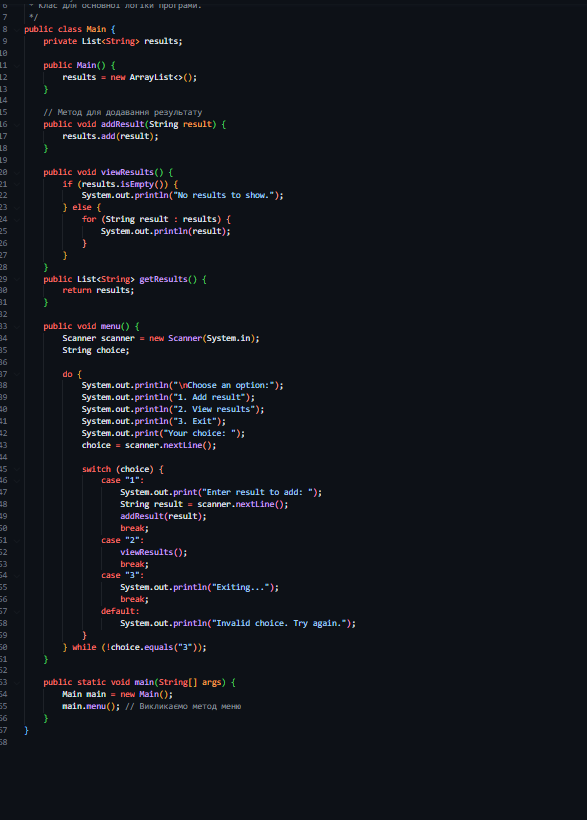
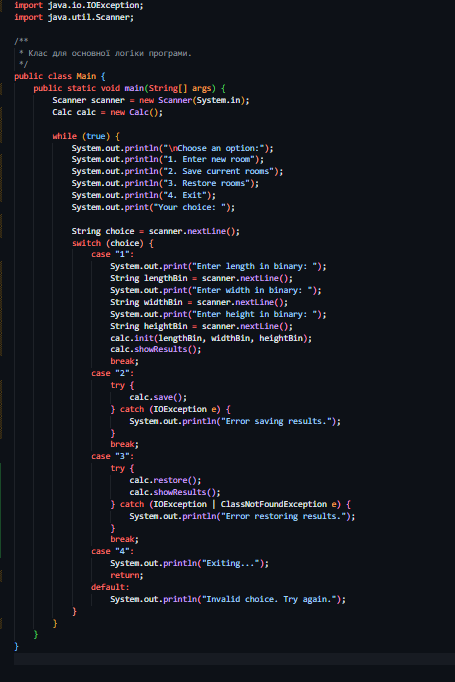
readme

Changed region(s): [[0.0, 0.0, 0.7692, 0.9238], [0.5538, 0.8006, 0.5846, 0.8314], [0.0615, 0.8006, 0.0923, 0.8314]]

diff --git a/3-exercies/Main.java b/3-exercies/Main.java
@@ -1,67 +1,55 @@
-import java.util.ArrayList;
-import java.util.List;
+import java.io.IOException;
 import java.util.Scanner;
 
 /**
  * Клас для основної логіки програми.
  */
 public class Main {
-    private List<String> results;
-
-    public Main() {
-        results = new ArrayList<>();
-    }
-
-    // Метод для додавання результату
-    public void addResult(String result) {
-        results.add(result);
-    }
-
-    public void viewResults() {
-        if (results.isEmpty()) {
-            System.out.println("No results to show.");
-        } else {
-            for (String result : results) {
-                System.out.println(result);
-            }
-        }
-    }
-    public List<String> getResults() {
-        return results;
-    }
-
-    public void menu() {
+    public static void main(String[] args) {
         Scanner scanner = new Scanner(System.in);
-        String choice;
-
-        do {
+        Calc calc = new Calc();
+        
+        while (true) {
             System.out.println("\nChoose an option:");
-            System.out.println("1. Add result");
-            System.out.println("2. View results");
-            System.out.println("3. Exit");
+            System.out.println("1. Enter new room");
+            System.out.println("2. Save current rooms");
+            System.out.println("3. Restore rooms");
+            System.out.println("4. Exit");
             System.out.print("Your choice: ");
-            choice = scanner.nextLine();
-
+            
+            String choice = scanner.nextLine();
             switch (choice) {
                 case "1":
-                    System.out.print("Enter result to add: ");
-                    String result = scanner.nextLine();
-                    addResult(result);
+                    System.out.print("Enter length in binary: ");
+                    String lengthBin = scanner.nextLine();
+                    System.out.print("Enter width in binary: ");
+                    String widthBin = scanner.nextLine();
+                    System.out.print("Enter height in binary: ");
+                    String heightBin = scanner.nextLine();
+                    calc.init(lengthBin, widthBin, heightBin);
+                    calc.showResults();
                     break;
                 case "2":
-                    viewResults();
+                    try {
+                        calc.save();
+                    } catch (IOException e) {
+                        System.out.println("Error saving results.");
+                    }
                     break;
                 case "3":
-                    System.out.println("Exiting...");
+                    try {
+                        calc.restore();
+                        calc.showResults();
+                    } catch (IOException | ClassNotFoundException e) {
+                        System.out.println("Error restoring results.");
+                    }
                     break;
+                case "4":
+                    System.out.println("Exiting...");
+                    return;
                 default:
                     System.out.println("Invalid choice. Try again.");
             }
-        } while (!choice.equals("3"));
-    }
-
-    public static void main(String[] args) {
-        Main main = new Main();
-        main.menu(); // Викликаємо метод меню
+        }
     }
 }

diff --git a/3-exercies/Item2d.java b/3-exercies/Item2d.java
@@ -3,50 +3,28 @@ import java.io.Serializable;
 /**
  * Клас для зберігання параметрів та результатів обчислень.
  */
-public class Item2d implements Serializable {
-    private double x;
-    private double y;
-    private String functionType;
+class Item2d implements Serializable {
+    private int length;
+    private int width;
+    private int height;
+    private int perimeter;
+    private int area;
+    private int volume;
 
     private static final long serialVersionUID = 1L;
 
-    public Item2d() {
-        this.x = 0.0;
-        this.y = 0.0;
-        this.functionType = "sin";
-    }
-
-    public Item2d(double x, double y, String functionType) {
-        this.x = x;
-        this.y = y;
-        this.functionType = functionType;
-    }
-
-    public double getX() {
-        return x;
-    }
-
-    public double getY() {
-        return y;
-    }
-
-    public String getFunctionType() {
-        return functionType;
-    }
-
-    public void setXY(double x, double y) {
-        this.x = x;
-        this.y = y;
+    public Item2d(int length, int width, int height, int perimeter, int area, int volume) {
+        this.length = length;
+        this.width = width;
+        this.height = height;
+        this.perimeter = perimeter;
+        this.area = area;
+        this.volume = volume;
     }
 
     @Override
     public String toString() {
-        return "x = " + x + ", y = " + y + ", Function = " + functionType;
-    }
-
-    public void setFunctionResult(double x, double y, String functionType) {
-        this.x = x;
-        this.y = y;
-        this.functionType = functionType;
+        return "Length: " + length + ", Width: " + width + ", Height: " + height +
+               ", Perimeter: " + perimeter + ", Area: " + area + ", Volume: " + volume;
     }
 }
